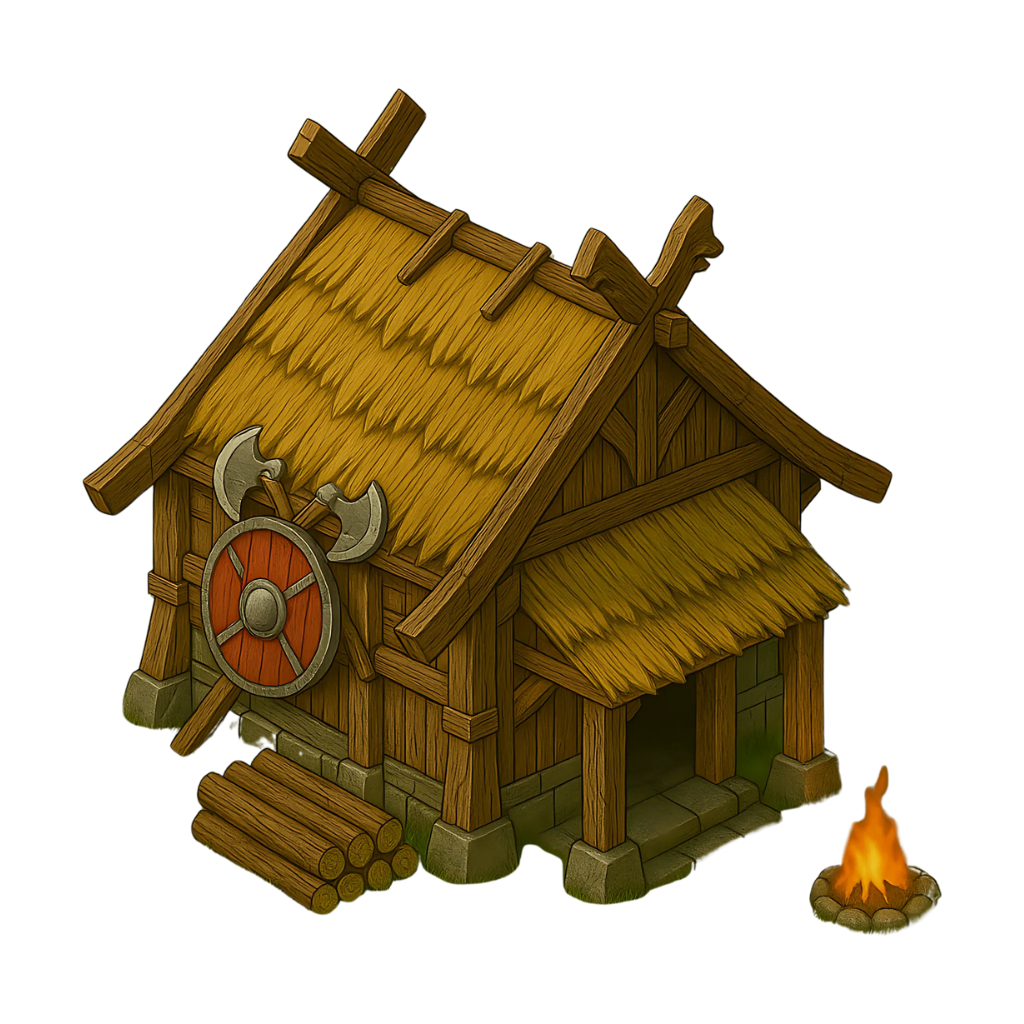
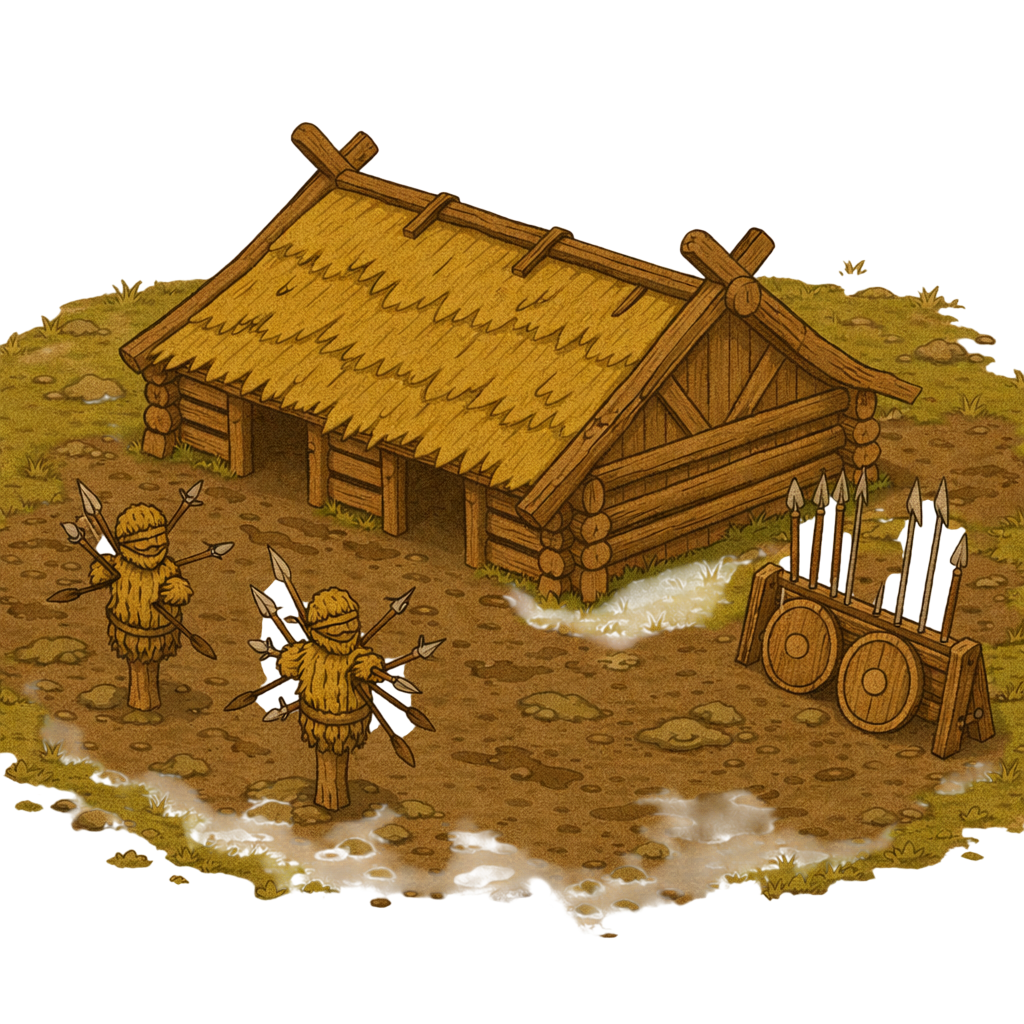
art and documentation wip
Watch tower, drakkar shipyard, barrack and troops.

diff --git a/GDD/AI Prompt Generation Guide.md b/GDD/AI Prompt Generation Guide.md
@@ -1,0 +1,115 @@
+# AI Prompt Generation Guide
+
+Este documento serve como a "bíblia visual" para a geração de assets artísticos do **Ironfrost Sagas** utilizando Inteligência Artificial Generativa (Midjourney, DALL-E, Stable Diffusion, etc.). O objetivo é garantir que todas as artes do jogo compartilhem um estilo consistente e altamente profissional, evitando os vícios comuns da IA (como fotorealismo excessivo ou armaduras de fantasia genérica).
+
+---
+
+## 1. Guia de Geração para Tropas
+
+As tropas do Ironfrost Sagas seguem um estilo **2D Cel-Shaded**. Elas devem parecer ativos de jogo vetoriais limpos, e não pinturas a óleo ou modelos 3D realistas.
+
+### 📜 Regras de Ouro para Tropas:
+1. **Imagem de Referência sempre:** Sempre anexe a imagem oficial e finalizada do *Berserker* (ou da sua tropa que ficou mais perfeita) e peça para a IA usar **puramente para referência de estilo de renderização**.
+2. **Sem Cenário:** Prompts de tropas devem sempre pedir *Pure White Background* ou *Transparent Background*. O ambiente polui o asset.
+3. **Perspectiva:** *Dramatic 3/4 front-facing portrait, framing from the waist up*. A arma primária deve estar em destaque.
+4. **Acabamento e Contraste:** Roupas vikings devem ser em tons terrosos, escuros e frios. Cores muito vivas ou neon só devem ser usadas em elementos mágicos específicos (como runas brilhantes).
+
+### ❌ Negative Prompt Padrão (Use em todas as tropas)
+> photorealistic, 3D render, CGI, cute, anime, superhero, glossy, shiny knight plate armor, medieval European crusader, bikini armor, sexualized, huge magical sword, glowing magic aura covering body, background scenery, landscape, forest, UI text, numbers, arrows, watermark.
+
+### 📝 Estrutura Padrão do Prompt de Tropa:
+Para gerar uma tropa nova, basta seguir o template e preencher as Lacunas na descrição física.
+
+> **Use the attached character illustration purely for the rendering style (flat cel-shading, bold outlines, clean 2D game asset quality).**
+>
+> Generate a **character portrait illustration** of an imposing Norse **[NOME O PAPEL DA TROPA]** to be used as a **unit card / recruitment screen artwork**.
+>
+> **Composition:**
+> — Dramatic 3/4 front-facing portrait, framing from the waist up
+> — Pure White Background — entirely isolated character, absolutely no environment
+> — Camera at chest level. [DESCREVER POSTURA AQUI, ex: Aggressive and leaning forward]
+>
+> **Character Visuals:**
+> — [DESCREVER O TIPO FÍSICO AQUI, ex: Scarred, massive Viking warlord]
+> — **Armor:** [DESCREVER MATERIAIS DE ARMADURA. Foque em cota de malha, couro e pedaços de ferro]. 
+> — **Weapons:** [DESCREVER ARMAS].
+> 
+> **Colors & Mood:**
+> — **Color Palette:** [DESCREVER A PALETA DE NÚCLEOS PRINCIPAIS].
+> — The illustration should convey: [SENTIMENTO PRINCIPAL. Ex: unbreakable defense, terror, speed].
+
+---
+
+## 2. Guia de Geração para Construções (Buildings)
+
+Diferente das tropas de meio corpo, os prédios são vistos numa perspectiva isométrica ou frontal inclinada inteira. A arquitetura principal viking deve girar em torno de pesados troncos de madeira, telhados sobrepostos (estilo *Stave*) e reforços grosseiros de pedra e ferro no late-game.
+
+### Construções em Evolução
+Ao desenvolver modelos para a cidade, os prédios passam pelo período de atualização e construção. Abaixo estão os filtros em formato de prompt para gerar arte de "Obras" consistentes com as artes finais (Nível 20) lançadas anteriormente.
+
+---
+
+### 📝 Estrutura Padrão do Prompt de Construção (Prédio Novo / Arte Final):
+Para gerar um prédio completamente inédito (idealmente focando logo no Nível 20/Fase Final para cravar o visual mais rico do prédio), utilize esta fórmula de preenchimento.
+
+> **Use the attached reference image purely for the rendering style (flat cel-shading, bold outlines, clean 2D game asset quality, vector illustration style).**
+>
+> Generate a **building illustration** of a Norse **[NOME DA CONSTRUÇÃO]** to be used as a **building icon / city management asset** in a Viking-themed strategy game interface.
+>
+> **Composition:**
+> — Isometric or 3/4 front-facing perspective, clearly displaying depth
+> — Pure White Background — completely isolated architectural asset, absolutely no background scenery, sky, or landscape
+> — Sitting on a small, clean circular patch of dirt, stone, and patchy snow
+>
+> **Architectural Design:**
+> — **Base & Structure:** [DESCREVER FORMATO, PESO E MATERIAIS PRINCIPAIS. ex: A heavy log cabin structure with strict geometric lines, built using interlocking thick treated pine logs]
+> — **Viking Detailing:** [DESCREVER ELEMENTOS NÓRDICOS E TELHADOS. ex: Steeply pitched dark wood shingle roofs overlapping each other, wooden shields nailed to the walls]
+> — **Specific Features:** [DESCREVER O QUE FAZ O PRÉDIO SER ÚNICO. ex: An enormous glowing forge in the center / A large wooden water wheel on the side]
+>
+> **Colors & Mood:**
+> — Lighting is clean and clearly highlights the texture of the materials (wood grain, stone cracks, iron rivets) without becoming muddy or photorealistic
+> — **Color Palette:** [EX: Deep rich mahogany browns, cold stone greys, and the sharp orange of the forge fire]
+> — The illustration should convey: [SENTIMENTO DO PRÉDIO. ex: industrial heavy production, unyielding defense, sacred divine atmosphere]
+
+---
+
+### 🎨 Edifício Nascendo do Zero (Fase 1 / Fundação)
+**Como usar:** Use este prompt junto com a imagem do Nível 1 (ou final) da construção. O objetivo é criar a primeira fundação esquelética.
+
+> **Use the attached building image perfectly as context for the target structure, and strictly match its exact rendering style (flat cel-shading, clear outlines, isometric 2D game asset).**
+>
+> Generate an **"under construction" building illustration** for a Viking strategy game, showing the bare foundations of a new building being erected from scratch.
+>
+> **Composition:**
+> — Isometric or 3/4 perspective matching the source style
+> — Pure White Background — isolated game asset
+> — Placed on a patch of trampled dirt and snow
+>
+> **Construction Details:**
+> — Only the very basic wooden skeleton/frame of the building has been raised so far. The structure is mostly hollow and transparent at this point, showing the floor plan
+> — Crude wooden scaffolding and ladders lean against the partially raised beams
+> — Scattered around the base are piles of raw construction materials: freshly cut tree logs, coiled heavy ropes, tools, and a wooden wheelbarrow
+> — **No roof, no fire, no walls.** It looks like an active, busy medieval construction site on day one.
+>
+> **Colors & Mood:**
+> — Warm, raw wood colors dominating. Fresh pine, dirt browns, and hemp rope colors. It should feel like a busy, optimistic start to a settlement.
+
+---
+
+### 🎨 Edifício em Reforma / Upgrade (Genérico para todas as fases)
+**Como usar:** Mande pra IA a sua "Arte Completa" de um edifício e use esse prompt para forçar ela a "envelopar" aquele edifício exato com um visual de canteiro de obras.
+
+> **CRITICAL: Use the attached building image heavily. Keep the exact core shape, silhouette, and rendering style (flat cel-shading, 2D isometric asset) of the attached building, but visually transform it into an active construction site.**
+>
+> Generate an **"Under Upgrade / Retrofitting" state** for the attached Viking building, used in a strategy game to show a building actively leveling up.
+>
+> **Transformations to apply to the original image:**
+> — **Scaffolding:** Wrap the exterior of the building realistically in heavy wooden scaffolding (crude wooden poles, crossbeams, and elevated plank walkways meant for Viking builders)
+> — **Tarps & Covers:** Partially cover the roof or one of the main walls with a heavy, weather-worn linen tarp/canvas (pale beige or grey) to hide parts of the upgrade process
+> — **Construction Equipment:** Add a heavy wooden crane system or pulley with thick ropes hanging near the top. Place piles of raw materials (cut stone blocks, stacked timber, barrels) at the base of the building
+> — Ensure the original identity of the building is still clearly recognizable underneath all the scaffolding and tarps
+>
+> **Composition:**
+> — Pure White Background
+> — Isometric/front-facing, exactly replicating the layout of the source image.
+> — It must look like an active, heavy Viking upgrading process, preparing the building to emerge stronger.

diff --git a/GDD/GDD - Ironfrost Sagas ( Temp name ).md b/GDD/GDD - Ironfrost Sagas ( Temp name ).md
@@ -723,7 +723,7 @@ Troops are trained at the **Berserker's Barrack** (regular troops) or **Freyja's
 | 6  | Huntsman          | 🔵 Advanced   | 🚶 Ground       | 🏹 Ranged       | ⚔️ Offensive    | Berserker's Barrack     |
 | 7  | Cavaleiro         | 🔵 Advanced   | 🚶 Ground       | ⚔️ Melee        | ⚔️🛡️ Mixed     | Berserker's Barrack     |
 | 8  | Huskarl           | 🟣 Elite      | 🚶 Ground       | ⚔️ Melee        | 🛡️ Defensive    | Berserker's Barrack     |
-| 9  | Jomsviking        | 🟣 Elite      | 🚶 Ground       | ⚔️ Melee        | ⚔️ Offensive    | Berserker's Barrack     |
+| 9  | Svinfylking       | 🟣 Elite      | 🚶 Ground       | ⚔️ Melee        | ⚔️ Offensive    | Berserker's Barrack     |
 | 10 | Ulfhednar         | 🟣 Elite      | 🚶 Ground       | ⚔️ Melee        | ⚔️ Offensive    | Berserker's Barrack     |
 | 11 | Runecaster        | 🟣 Elite      | 🚶 Ground       | 🏹 Ranged       | ⚔️🛡️ Mixed     | Berserker's Barrack     |
 | 12 | Valkyrie          | 🟡 Mythological | 🦅 Flying     | ⚔️ Melee        | ⚔️🛡️ Mixed     | Freyja's Temple         |
@@ -746,9 +746,9 @@ Troops are trained at the **Berserker's Barrack** (regular troops) or **Freyja's
 | 5  | Berserker      | 45  | 5           | 3            | 20    | 30    | 2   |
 | 6  | Huntsman       | 30  | 8           | 20           | 22    | 30    | 2   |
 | 7  | Cavaleiro      | 30  | 25          | 18           | 24    | 50    | 3   |
-| 8  | Huskarl        | 20  | 55          | 45           | 14    | 15    | 5   |
-| 9  | Jomsviking     | 60  | 20          | 12           | 16    | 40    | 5   |
-| 10 | Ulfhednar      | 55  | 10          | 8            | 28    | 60    | 4   |
+| 8  | Huskarl        | 15  | 55          | 50           | 8     | 15    | 4   |
+| 9  | Svinfylking    | 60  | 20          | 12           | 16    | 40    | 5   |
+| 10 | Ulfhednar      | 65  | 15          | 10           | 22    | 30    | 4   |
 | 11 | Runecaster     | 35  | 15          | 25           | 14    | 20    | 5   |
 | 12 | Valkyrie       | 70  | 40          | 30           | 30    | 30    | 10  |
 | 13 | Frost Giant    | 120 | 50          | 15           | 8     | 100   | 15  |
@@ -830,11 +830,12 @@ Troops are trained at the **Berserker's Barrack** (regular troops) or **Freyja's
 **Visual Identity:** Predator, not a soldier. Where the Bowman is a trained militiaman, the Huntsman is an apex predator who has survived the wilds alone.
 
 ##### Cavaleiro (Riddari)
-**Silhouette:** Mounted figure on a stocky Norse horse. Sits tall in the saddle. Lance or sword raised. Horse draped with a simple cloth caparison.
-**Armor:** Half-plate over chainmail — iron pauldrons, breastplate, chainmail skirt. Open-faced helm with a nose guard and bronze inlay. Leather riding gloves.
-**Weapons:** Mounted lance (primary charge weapon). Arming sword (secondary). Round shield strapped to the off-arm or saddle.
-**Color Palette:** The most "knightly" troop — polished iron with bronze accents, deep crimson cloth caparison on the horse, clan sigil on the shield. The horse is a sturdy fjord breed (grey-dun color).
-**Visual Identity:** Authority and versatility. The Jarl's trusted commander. Should feel like the most "professional" soldier on the battlefield — disciplined, well-equipped, deadly from horseback.
+**Silhouette:** Highly imposing, dark mounted vanguard on a heavily armored Norse warhorse. Forward-leaning, aggressive posture ready to trample.
+**Armor (Rider):** Darkened overlapping iron scales (lamellar) over heavy chainmail. A menacing iron half-mask helm carved with runic warnings. Thick black fur mantle over the shoulders.
+**Armor (Horse):** The horse is protected by raw iron plating on the head and chest (chamfron and peytral), draped with heavy dark furs and jagged metal studs.
+**Weapons:** A heavy, blackened steel cavalry spear with a jagged edge. Heavy battered wooden round-shield reinforced with dark iron rings.
+**Color Palette:** Dark, brutal, and intimidating. Deep blacks, cold dark iron, tarnished silver, and heavy dark brown furs.
+**Visual Identity:** A terrifying, thunderous force of war. Less "noble knight" and more "harbinger of death on horseback". He is the vanguard that shatters the enemy's courage before shattering their lines.
 
 </details>
 
@@ -848,12 +849,11 @@ Troops are trained at the **Berserker's Barrack** (regular troops) or **Freyja's
 **Color Palette:** All iron and steel — the darkest, most heavily-armored silhouette. The helm obscures all humanity. Gold trim on the shield edge indicates Jarl's personal guard. Deep purple cloth beneath the armor.
 **Visual Identity:** An impenetrable fortress in human form. No face visible, no personality shown — only duty and iron. The ultimate "I shall not move" energy.
 
-##### Jomsviking
-**Silhouette:** Tall, athletic, combat-ready stance. Balanced posture — equally ready for offense or defense. Dual-wielding or wielding a longsword with shield.
-**Armor:** Blackened chainmail with a leather surcoat bearing the Jomsviking raven insignia. Iron-reinforced bracers. Open-faced helm with raven-wing side pieces. Black cloak pinned at the shoulder.
-**Weapons:** Longsword (masterwork steel). Round battle shield with the Jomsviking brotherhood emblem — a raven with spread wings over a sword.
-**Color Palette:** Black and gold — blackened iron, black leather, black cloak, with gold raven insignia and gold sword pommel. The elite mercenary look. Clean, professional, lethal.
-**Visual Identity:** The "special forces" aesthetic. Every piece of gear is perfectly maintained. They move like professionals. The contrast with the feral Berserker is stark — same destructive power, but with precision and control.
+##### Svinfylking
+- **Silhouette:** Imposing, heavily built shock trooper. Wide, aggressive stance wielding a massive polearm. Covered in thick furs and overlapping leather lamellar.
+- **Armor:** Thick overlapping leather lamellar over chainmail. A heavy boar-hide cloak draped over the back and shoulders. A heavy iron half-helm with a stylized metal boar crest forming the nose-guard.
+- **Weapons:** The **Atgeir** — a devastating two-handed Norse hewing spear with a long, heavy cutting blade. Capable of cleaving through shields and armor alike.
+- **Color Palette & Vibe:** Earthy, rich, and brutal. Dark brown leathers, rust-red accents, grey iron, and the bristly dark grey of boar fur. They look like a terrifying, disciplined stampede. Less 'clean medieval knight', more 'unbreakable Norse vanguard'.
 
 ##### Ulfhednar (Wolf-Warrior)
 **Silhouette:** Low, feral sprint posture. Running on all fours or in a deep crouch. Wolf pelt over the head and shoulders, blending the human and animal silhouette.
@@ -958,7 +958,7 @@ Hunters and woodsmen trained to loose arrows with deadly precision. The Bowman s
 Legendary warrior women of the North, the Shieldmaidens wield reinforced iron-rimmed shields and short swords forged in the Dvergr's Quarry. They form impenetrable shield walls that absorb enemy charges and arrow volleys alike — boasting the highest combined melee and ranged defense among non-elite troops. Inspired by the sagas of Lagertha and Brynhildr, they are the living walls that protect what matters most.
 
 - **Strong against:** Bowman, Huntsman, ranged attackers
-- **Weak against:** Berserker, Jomsviking (overwhelming offensive power)
+- **Weak against:** Berserker, Svinfylking (overwhelming offensive power)
 
 ---
 
@@ -1009,18 +1009,16 @@ Mounted warriors riding the sturdy war-horses bred in the highlands of Midgard. 
 The Jarl's personal guard — elite warriors clad in heavy iron armor, carrying tower shields and long swords. The Huskarl is the most resilient defensive unit in the entire game: a living wall of steel and unwavering loyalty. They require enormous amounts of Metal and Animal Skin to equip, and each one consumes significant population. But behind a line of Huskarls, a village stands unconquerable. Their oath is simple: *"The Jarl falls only after the last Huskarl has fallen."*
 
 - **Strong against:** Almost all ground troops (superior defense absorbs damage)
-- **Weak against:** Berserker, Jomsviking (raw damage that bypasses defensive posture)
+- **Weak against:** Berserker, Svinfylking (raw damage that bypasses defensive posture)
 
 ---
 
-##### 9. Jomsviking
+##### 9. Svinfylking
+- **Role:** Elite Shock Trooper
+- **Tier:** 🟣 Elite
+- **Description:** Elite shock troops dedicated to the boar-spirit (Svinfylking). They charge into battle forming the dreaded 'Boar Snout' wedge formation to break enemy lines. Wielding devastating two-handed Atgeirs (hewing spears) and heavily armored in reinforced leather and boar hides, they combine overwhelming attack power with respectable defense. The Svinfylking is the definitive ground offensive unit: capable of physically shattering shield walls and piercing any defense. Recruiting them requires immense resources.
 
-**Type:** Ground · Melee · Offensive
-**Tier:** 🟣 Elite
-
-Members of the legendary Jomsviking brotherhood — the most feared mercenary warriors in all of the North. Bound by an iron code of honor and forged in relentless combat, they combine devastating attack power with respectable defense. The Jomsviking is the definitive ground offensive unit: capable of breaking any formation, piercing any defense, and still standing when the dust settles. Recruiting them requires wealth and reputation.
-
-- **Strong against:** Huskarl, defensive formations, fortified positions
+- **Strong against:** Defensive formations, fortified positions
 - **Weak against:** Huntsman, Runecaster (ranged kiting and debuffs)
 
 ---
@@ -1030,7 +1028,7 @@ Members of the legendary Jomsviking brotherhood — the most feared mercenary wa
 **Type:** Ground · Melee · Offensive
 **Tier:** 🟣 Elite
 
-A step beyond the Berserker — the Ulfhednar dons the pelt of a sacred wolf and channels the beast's spirit in battle. Faster on the world map than any other ground troop, with raw damage rivaling the Jomsviking. The Ulfhednar is purpose-built for lightning raids: strike fast, loot everything, vanish before reinforcements arrive. Their speed makes them the ultimate harassment and pillaging unit, but they share the Berserker's weakness — charging into a prepared defensive formation is suicide.
+A step beyond the Berserker — the Ulfhednar dons the pelt of a sacred wolf and channels the beast's spirit in battle. Faster on the world map than any other ground troop, with raw damage rivaling the Svinfylking. The Ulfhednar is purpose-built for lightning raids: strike fast, loot everything, vanish before reinforcements arrive. Their speed makes them the ultimate harassment and pillaging unit, but they share the Berserker's weakness — charging into a prepared defensive formation is suicide.
 
 - **Strong against:** Isolated targets, resource raids, undefended villages
 - **Weak against:** Prepared defenses, Shieldmaiden + Spearman formations
@@ -1142,6 +1140,42 @@ The spirits of fallen warriors, summoned from Valhalla by Tyr's divine authority
 
 ---
 
+#### Troop Progression (Power Curve)
+
+The combat balance in *Ironfrost Sagas* is built on a power pyramid determined by raw base stats (ATK + DEF combination) and utility. From the basic recruit to the pinnacle of mythological power:
+
+##### 🟢 Basic Tier (Early Game - Mass & Economy)
+The "bread and butter" troops. Weak individually, but deadly in numbers.
+1. **Bowman (ATK: 20):** Most physically fragile. Pure ranged focus.
+2. **Spearman (ATK: 25):** Core defense. Holds lines.
+3. **Viking (ATK: 35):** Initial raw damage peak, but dies fast.
+
+##### 🔵 Advanced Tier (Mid Game - Focused Roles)
+Troops double in strength, fulfilling specialized tactical roles.
+4. **Shieldmaiden (Total: 40 ATK / 35 DEF):** A defensive juggernaut.
+5. **Huntsman (ATK: 30):** Bypasses defensive walls with high ranged damage.
+6. **Riddari (ATK: 30 / High DEF):** Dual utility. High HP, solid attack, fast, huge loot capacity.
+7. **Berserker (ATK: 45):** The raw offender of the mid-game. Low defense, heavy melee strike.
+
+##### 🟣 Elite Tier (Late Game - Line Breakers)
+Forces that require Eldrunar and heavy industry. A single unit crushes dozens of basic troops.
+8. **Runecaster (ATK: 35 / Good DEF):** Tactical ranged magic support and debuffer.
+9. **Huskarl (Total: 15 ATK / 55-50 DEF):** The unbreakable steel wall.
+10. **Svinfylking (ATK: 60):** Lethal shock troop built to crack Huskarl lines.
+11. **Ulfhednar (ATK: 65):** The peak of ground damage. Extremely fast but fragile raider.
+
+##### 🟡 Mythological Tier (End Game - Absolute Dominance)
+Forces that alter the rules of engagement on the map entirely.
+12. **Raven of Odin (ATK: 0):** Pure espionage. Invisible to ground units.
+13. **Valkyrie (ATK: 70):** Sky dominance. Ground melee cannot hit them.
+14. **Frost Giant (ATK: 120 / 100 POP):** Massive siege engine, breaks Watch Towers.
+15. **Einherjar (ATK: 180):** The definitive pinnacle of combat power in a single slot.
+
+**Base Attack Power Timeline:**
+`Bowman (20) → Viking (35) → Berserker (45) → Svinfylking (60) → Valkyrie (70) → Frost Giant (120) → Einherjar (180)`
+
+---
+
 ### 8.10 Heroes
 
 > **TODO:** Define hero system. Consider a roster of **9 heroes** — one mandatory per specific area/realm. Balance is a key challenge.
@@ -1168,9 +1202,28 @@ Mythological troops are defined in **Section 8.9 — Tier 4 (Mythological)**. Th
 ---
 
 ### 8.12 Ships
+In *Ironfrost Sagas*, naval combat acts as the first line of defense and offense between island clusters. Unlike ground troops, naval units have their own combat resolution phase. If an attacking fleet loses the naval battle, all ground troops being transported in their cargo ships are sent to the bottom of the sea.
 
-> **TODO:** Define ship types, stats, and naval mechanics.
+Naval balance is based heavily on **Population Efficiency** — determining how much attack or defense a ship provides relative to the farm space it consumes.
 
+#### The Viking Fleet
+
+| Class / Name | Role | Speed | Transport Cap. | Naval ATK | Naval DEF | Pop Cost | Cost (Wood/Clay/Stone/Iron) |
+| :--- | :--- | :---: | :---: | :---: | :---: | :---: | :--- |
+| **1. Karvi** | Fast Transport | 18 | 15 | 0 | 5 | 4 | 450 / 200 / 0 / 50 |
+| **2. Knarr** | Heavy Transport | 9 | 40 | 0 | 10 | 8 | 1000 / 400 / 0 / 100 |
+| **3. Snekkja** | Light Attack | 16 | 0 | 160 | 40 | 6 | 1200 / 300 / 0 / 300 |
+| **4. Skeid** | Heavy Attack | 11 | 0 | 280 | 100 | 10 | 2200 / 600 / 0 / 800 |
+| **5. Skjaldskip**| Pure Defense | 8 | 0 | 20 | 280 | 8 | 1500 / 500 / 0 / 1200 |
+| **6. Dreki** | Flagship (Mixed) | 13 | 0 | 400 | 400 | 45 | 8000 / 2500 / 0 / 4500 |
+
+#### Naval Roles & Strategy
+
+- **Karvi & Knarr (Transports):** The logistical backbone. The Karvi is meant for rapid lightning raids with Ulfhednar or Vikings, outrunning defenses. The Knarr is slow but cost-effective, meant to carry the massive endgame siege armies.
+- **Snekkja (Blockade Breaker):** The classic "Glass Cannon". Highly population-efficient for pure attack (26 ATK per Pop), but sinks immediately if counter-attacked. Used to quickly clear enemy transports.
+- **Skeid (Line Ship):** The heavy hitter. Highly efficient and can take a punch, serving as the core of any serious naval assault against entrenched island defenses.
+- **Skjaldskip (Shield-Ship):** A floating fortress. Sacrifices all speed and offense to provide massive defense per population (35 DEF per Pop). A harbor filled with these is practically immune to light raids.
+- **Dreki (Dragon Ship):** The pinnacle of Norse naval engineering. The absolute best stats in the game, but consumes a staggering 45 Population. It is a flex of endgame wealth and terror.
 ---
 
 ### 8.13 Buff & Nerf Elements

diff --git a/GDD/World Navigation & Village Visualization.md b/GDD/World Navigation & Village Visualization.md
@@ -62,18 +62,20 @@ ZOOM LEVEL 3 — Village View (zoomed in)
 
 ### 1.4 Visual Identity of the Map
 
-The world map should feel **Nordic and alive**:
+The world map follows a **static visual style**, closely aligned with Grepolis and Tribal Wars — no animated backgrounds or continuous motion effects. The map is a detailed, painted illustration rendered as tiles. Animations are reserved for the **City/Village view** only.
 
-- **Background:** A dark, stormy Nordic sea — deep teal/grey water with subtle animated waves.
-- **Islands:** Rendered as distinct land masses with visible terrain variation (snowy peaks, forests, rocky coasts). Each island has a unique visual character.
-- **Villages:** Small icons on the island. Color-coded ring or flag indicates ownership:
+- **Background:** A Nordic sea rendered as a static illustrated tile — dark teal/grey water, hand-painted style. No wave animation.
+- **Islands:** Static land-mass illustrations with visible terrain variation (snowy peaks, forests, rocky coasts). Each island tile has a unique visual character matching its region biome.
+- **Villages:** Small static icons placed on island tiles. A color-coded ring or small flag indicates ownership state:
   - 🟤 Barbarian / unclaimed
   - 🔵 Enemy player
   - 🟢 Friendly / Aett member
   - 🔴 Your own village
   - ⚪ Empty slot (available for new player)
-- **Fog of War:** Areas far from any player village are darkened. Fog lifts around owned villages and recently scouted areas.
-- **Activity Indicators:** Moving troop lines (animated dashed arrows) show incoming/outgoing attacks in real time.
+- **Fog of War:** Areas beyond visibility range are darkened with a static overlay. Fog lifts around owned villages and recently scouted areas.
+- **March Indicators:** Incoming and outgoing troop movements are shown as **static dashed lines** drawn on the map between origin and target — similar to Tribal Wars' attack lines. No continuous animation; the line simply appears or disappears as the march status changes.
+
+> **Design Principle:** Keep the world map clean and readable at a glance. Visual complexity lives in the City View, not the World Map.
 
 ---
 
@@ -379,7 +381,7 @@ The world map uses **two communication channels**:
 | Channel | Protocol | Use Case |
 |---------|:--------:|----------|
 | **HTTP REST** | Request/Response | Chunk loading, village detail, initial world load |
-| **WebSocket** | Persistent bidirectional | Real-time troop movement arrows, conquest events, live point changes |
+| **WebSocket** | Persistent bidirectional | Server-push events: conquest notifications, march arrival/departure, chunk invalidation |
 
 ### 6.2 REST Endpoints — Chunk Loading
 

diff --git a/GDD/Battle Algorithm.md b/GDD/Battle Algorithm.md
@@ -322,15 +322,17 @@ sobrevivência = √(1 − 0.449) = √(0.551) = 0.742
 
 ### ⚔️ Batalha 4 — Endgame: Choque Mitológico
 
+### ⚔️ Batalha 4 — Endgame: Choque Mitológico
+
 > Cenário: Ataque pesado de tropas elite + mitológicas contra defesa fortificada de alto nível.
 
-**Atacante:** 5 Einherjar + 2 Frost Giants + 15 Jomsvikings
+**Atacante:** 5 Einherjar + 2 Frost Giants + 15 Svinfylkings
 
 | Tropa | Qty | ATK/un | ATK Total | Tipo |
 |-------|:---:|:------:|:---------:|:----:|
 | Einherjar | 5 | 90 | 450 | Melee |
 | Frost Giant | 2 | 120 | 240 | Melee |
-| Jomsviking | 15 | 60 | 900 | Melee |
+| Svinfylking | 15 | 60 | 900 | Melee |
 
 - `Total_ATK = 1,590` (100% melee, 100% terrestre)
 

diff --git a/DocumentsGD/data_model_rts_mmo.md b/DocumentsGD/data_model_rts_mmo.md
@@ -167,7 +167,7 @@ Não precisa de tabela de junção `UserVillage` — a relação é **1:N** simp
 
 // 🟣 Elite (Berserker's Barrack Lv 25–35 + Advanced Research)
 7  = Huskarl          (Huskarl — Ground, Melee, Defensive)
-8  = Jomsviking       (Jomsviking — Ground, Melee, Offensive)
+8  = Svinfylking      (Svinfylking — Ground, Melee, Offensive)
 9  = Ulfhednar        (Guerreiro-Lobo — Ground, Melee, Offensive)
 10 = Runecaster       (Lançador de Runas — Ground, Ranged, Mixed)
 